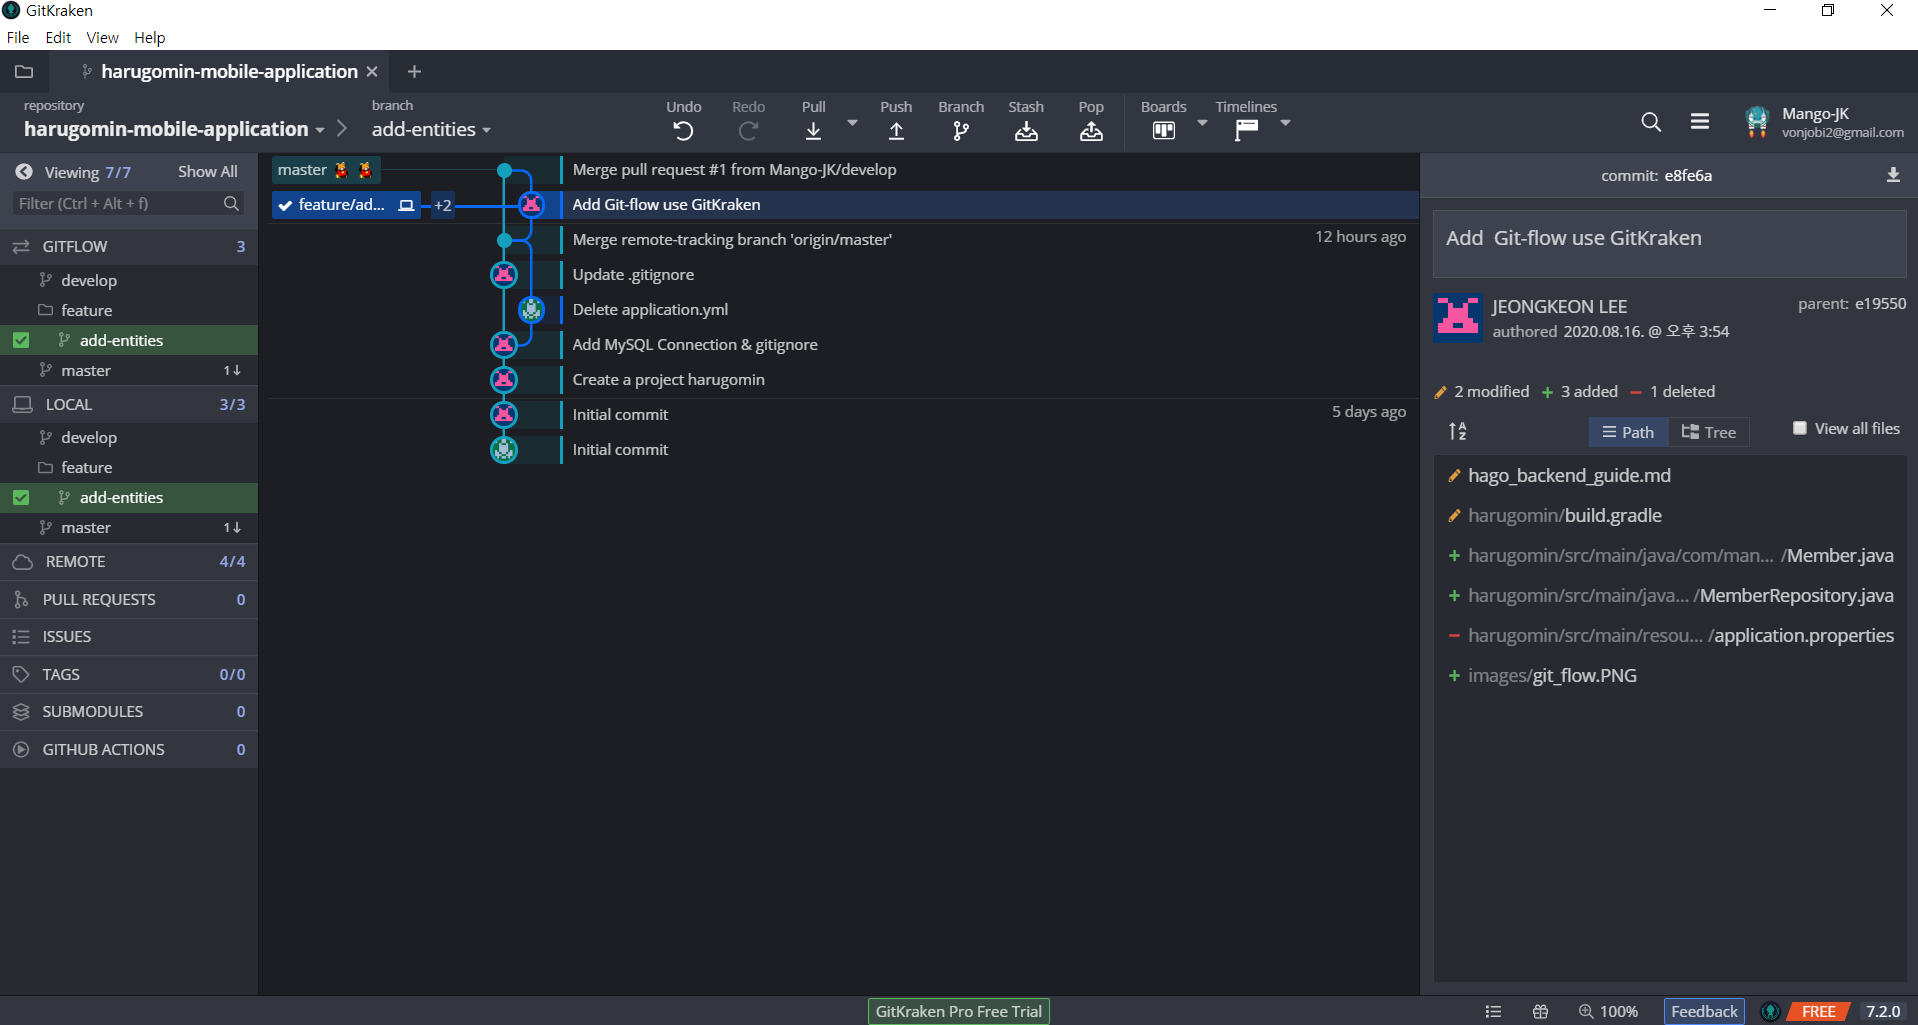
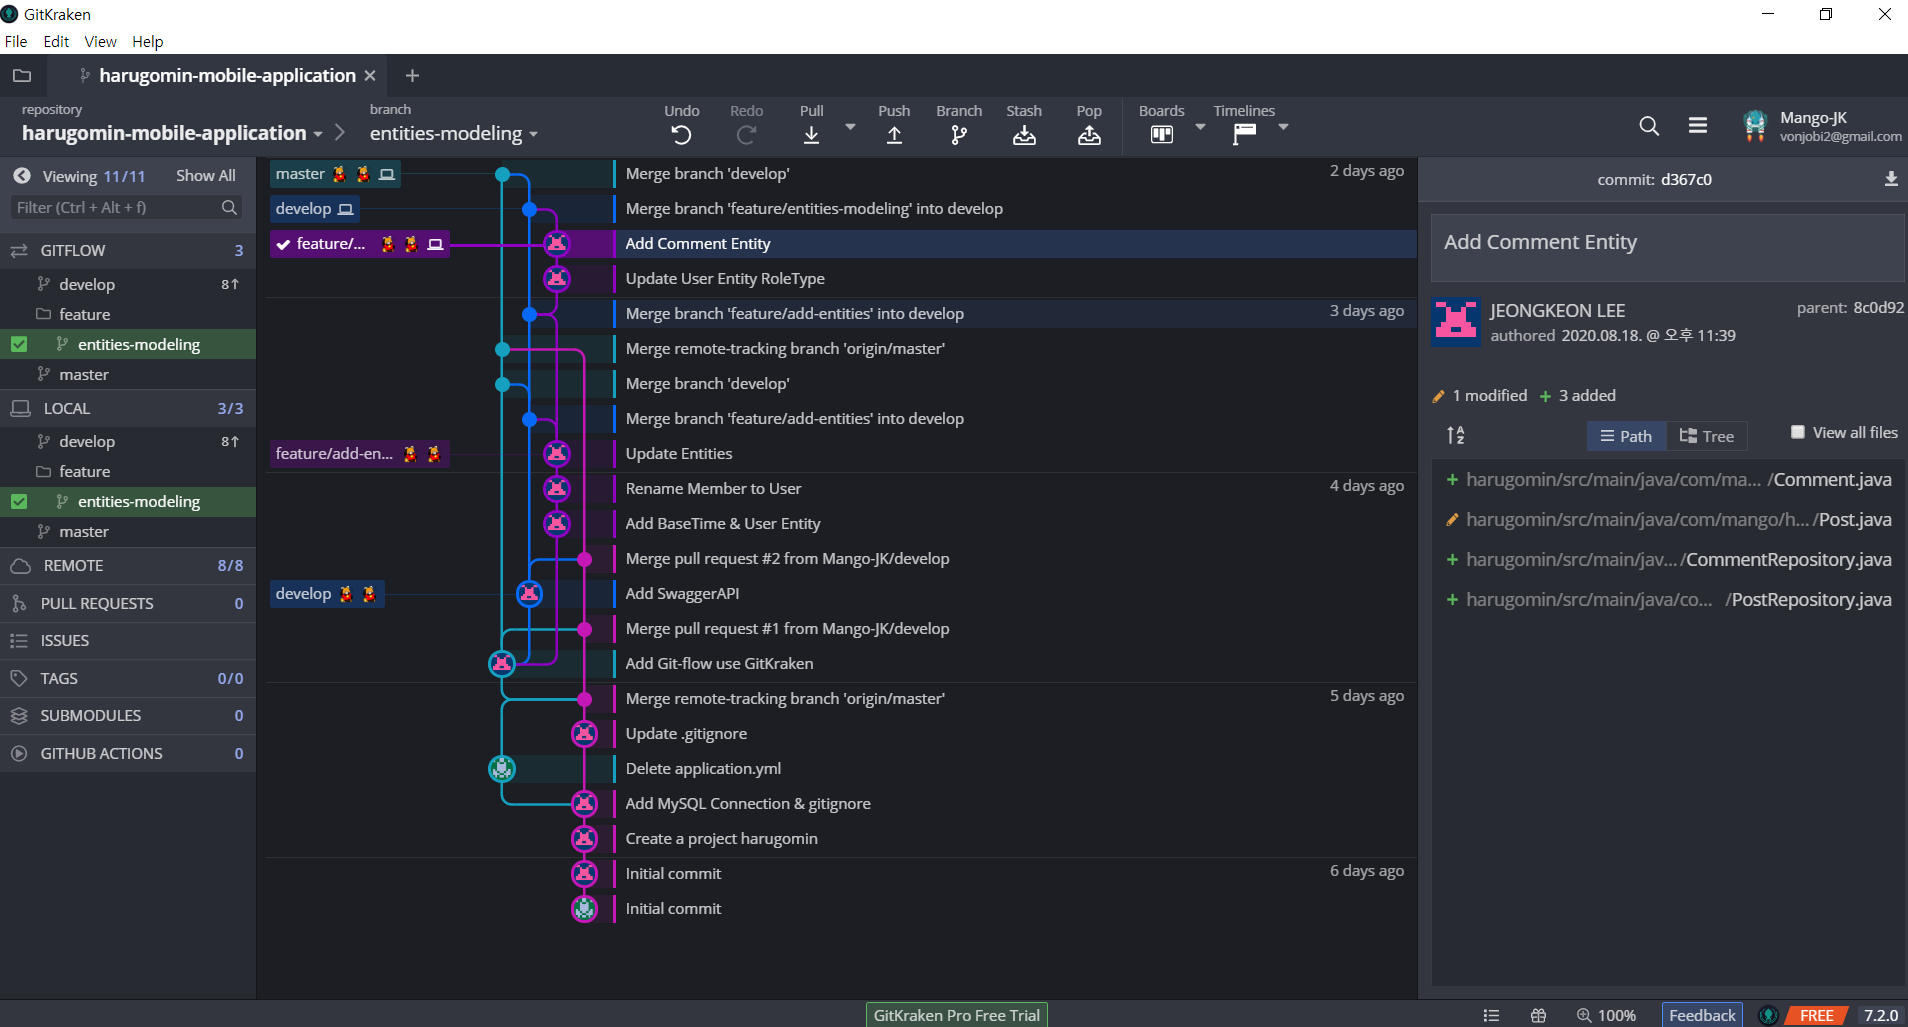
Update entity & README

diff --git a/hago_backend_guide.md b/hago_backend_guide.md
@@ -137,23 +137,47 @@ git flow가 사용하는 branch는 크게 두가지로 나뉜다.
 <center><image src="./images/start_gitkraken.PNG"></image></center>
 
 
-
 <hr/>
 
 
+# Entity Modeling
 
 
 
-# Data Modeling
+<center><image src="./images/entity_modeling.PNG"></image></center>
 
 
 
+```java
+// Entity Modeling
 
+1. User (사용자 계정)
+    
+    
+2. Post (고민글)
+    
+    
+3. Comment (댓글)
+    
+    
+    
+    
+* Role (관리자/일반사용자)
+* BaseTimeEntity (생성날짜/수정날짜)
 
-
-
-
+```
 
 
 
 <hr/>
+
+# 4. 개발
+
+## feat.01 Kakao Login
+
+
+
+
+
+
+
